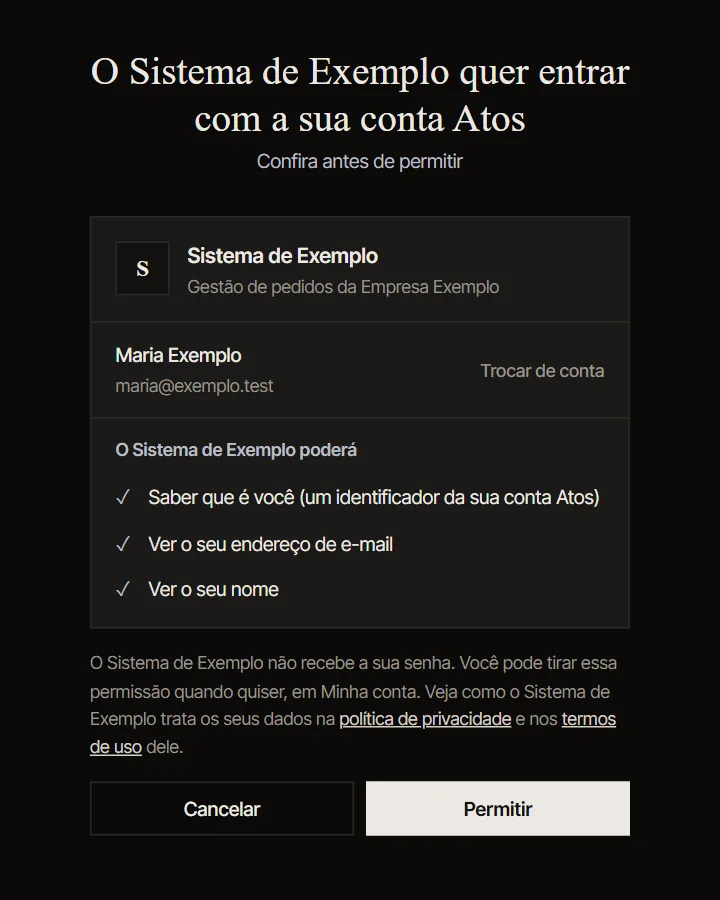
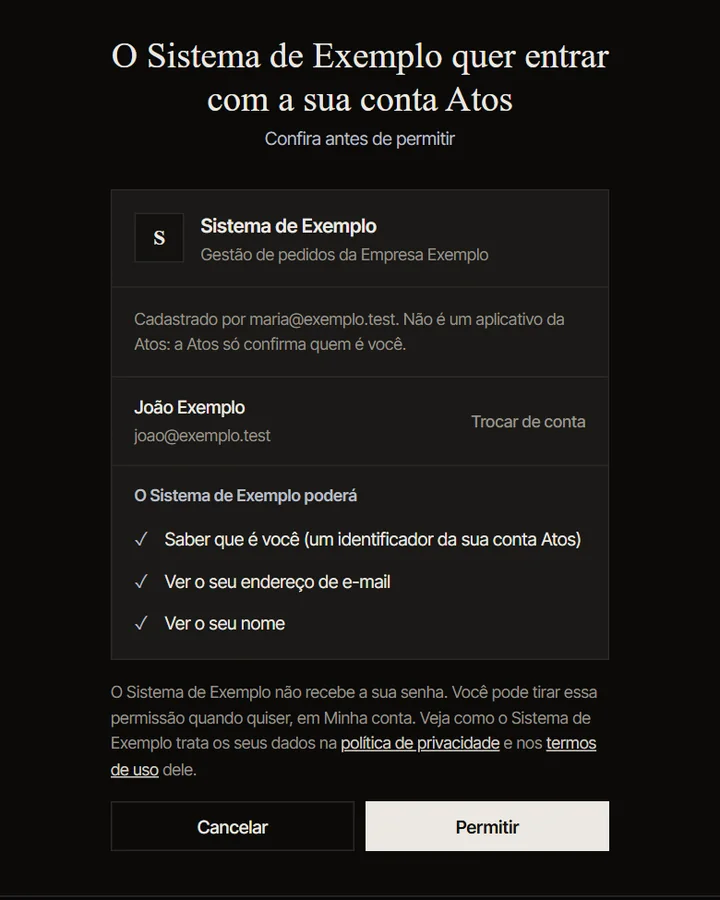
Integracao: a captura do consentimento refeita com um aplicativo de terceiro (atos:oidc:app, dono maria@exemplo.test, joao@exemplo.test liberado), mostrando "Cadastrado por ... Nao e um aplicativo da Atos"; a pagina acompanha a tela (quem cadastrou na legenda e no alt, a volta loopback do programa i

diff --git a/public/integracao/index.html b/public/integracao/index.html
@@ -72,8 +72,8 @@
       </figure>
       <figure class="captura">
         <img src="/assets/integracao/consentimento.webp" width="720" height="900" loading="lazy" decoding="async"
-          alt="Tela de consentimento: “O Sistema de Exemplo quer entrar com a sua conta Atos”, a conta que está entrando, a lista do que o sistema poderá (saber que é você, ver o e-mail, ver o nome) e os botões Cancelar e Permitir.">
-        <figcaption><strong>2. Permitir</strong>Na primeira vez, a Atos mostra o seu sistema e o que ele vai receber, com os links da política de privacidade e dos termos dele. Nada segue sem o “Permitir”.</figcaption>
+          alt="Tela de consentimento: “O Sistema de Exemplo quer entrar com a sua conta Atos”, o aviso “Cadastrado por maria@exemplo.test. Não é um aplicativo da Atos”, a conta que está entrando, a lista do que o sistema poderá (saber que é você, ver o e-mail, ver o nome) e os botões Cancelar e Permitir.">
+        <figcaption><strong>2. Permitir</strong>Na primeira vez, a Atos mostra o seu sistema, quem o cadastrou e o que ele vai receber, com os links da política de privacidade e dos termos dele. Nada segue sem o “Permitir”.</figcaption>
       </figure>
       <figure class="captura larga">
         <img src="/assets/integracao/aplicativos.webp" width="1200" height="210" loading="lazy" decoding="async"
@@ -100,7 +100,7 @@
           <ul>
             <li><strong>O aplicativo:</strong> o nome que a pessoa verá, o site, a política de privacidade e os termos.</li>
             <li><strong>O acesso:</strong> página ou aplicativo (cliente público, sem segredo) ou servidor (cliente confidencial, com um segredo mostrado uma vez só: guarde-o na hora).</li>
-            <li><strong>O endereço de volta:</strong> exato, como o seu sistema vai mandar no <code>redirect_uri</code>. Em <code>https</code> (ou <code>http</code> só em <code>127.0.0.1</code>, para testar na sua máquina).</li>
+            <li><strong>O endereço de volta:</strong> exato, como o seu sistema vai mandar no <code>redirect_uri</code>. Em <code>https</code>, ou <code>http</code> só em <code>127.0.0.1</code> e <code>[::1]</code> (para testar na sua máquina; um programa instalado pode aceitar a volta em qualquer porta).</li>
           </ul>
         </div>
       </li>
@@ -113,7 +113,7 @@
       <li>
         <div>
           <h3>Integre</h3>
-          <p>O bloco “Como integrar” da Integrações traz o seu <code>client_id</code>, os endereços e um pedido pronto para colar no Claude Code, além de comandos para PowerShell e Linux. Ou siga a <a href="#referencia">referência técnica</a> abaixo com a biblioteca OpenID Connect da sua linguagem.</p>
+          <p>O bloco “Como integrar” da Integrações traz o seu <code>client_id</code>, os endereços e um pedido pronto para colar no Claude Code, além de comandos para PowerShell e Linux/macOS (o segredo nunca entra no pedido nem nos comandos). Ou siga a <a href="#referencia">referência técnica</a> abaixo com a biblioteca OpenID Connect da sua linguagem.</p>
         </div>
       </li>
       <li>
